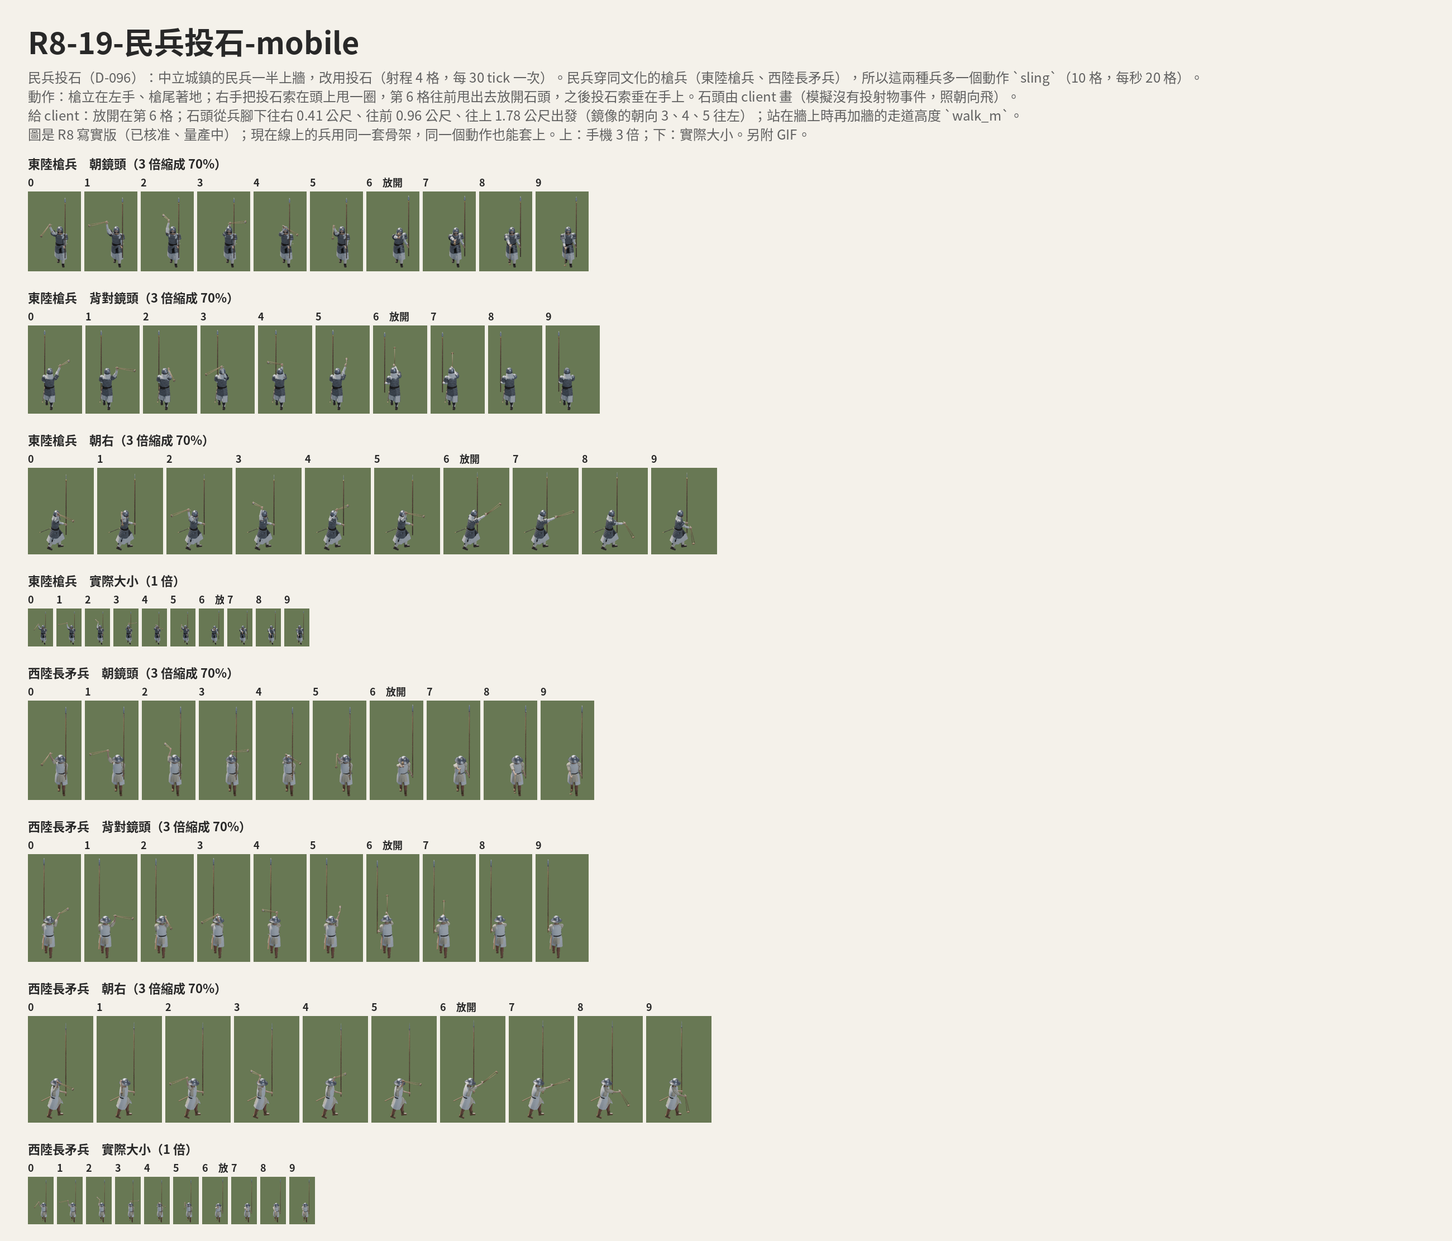
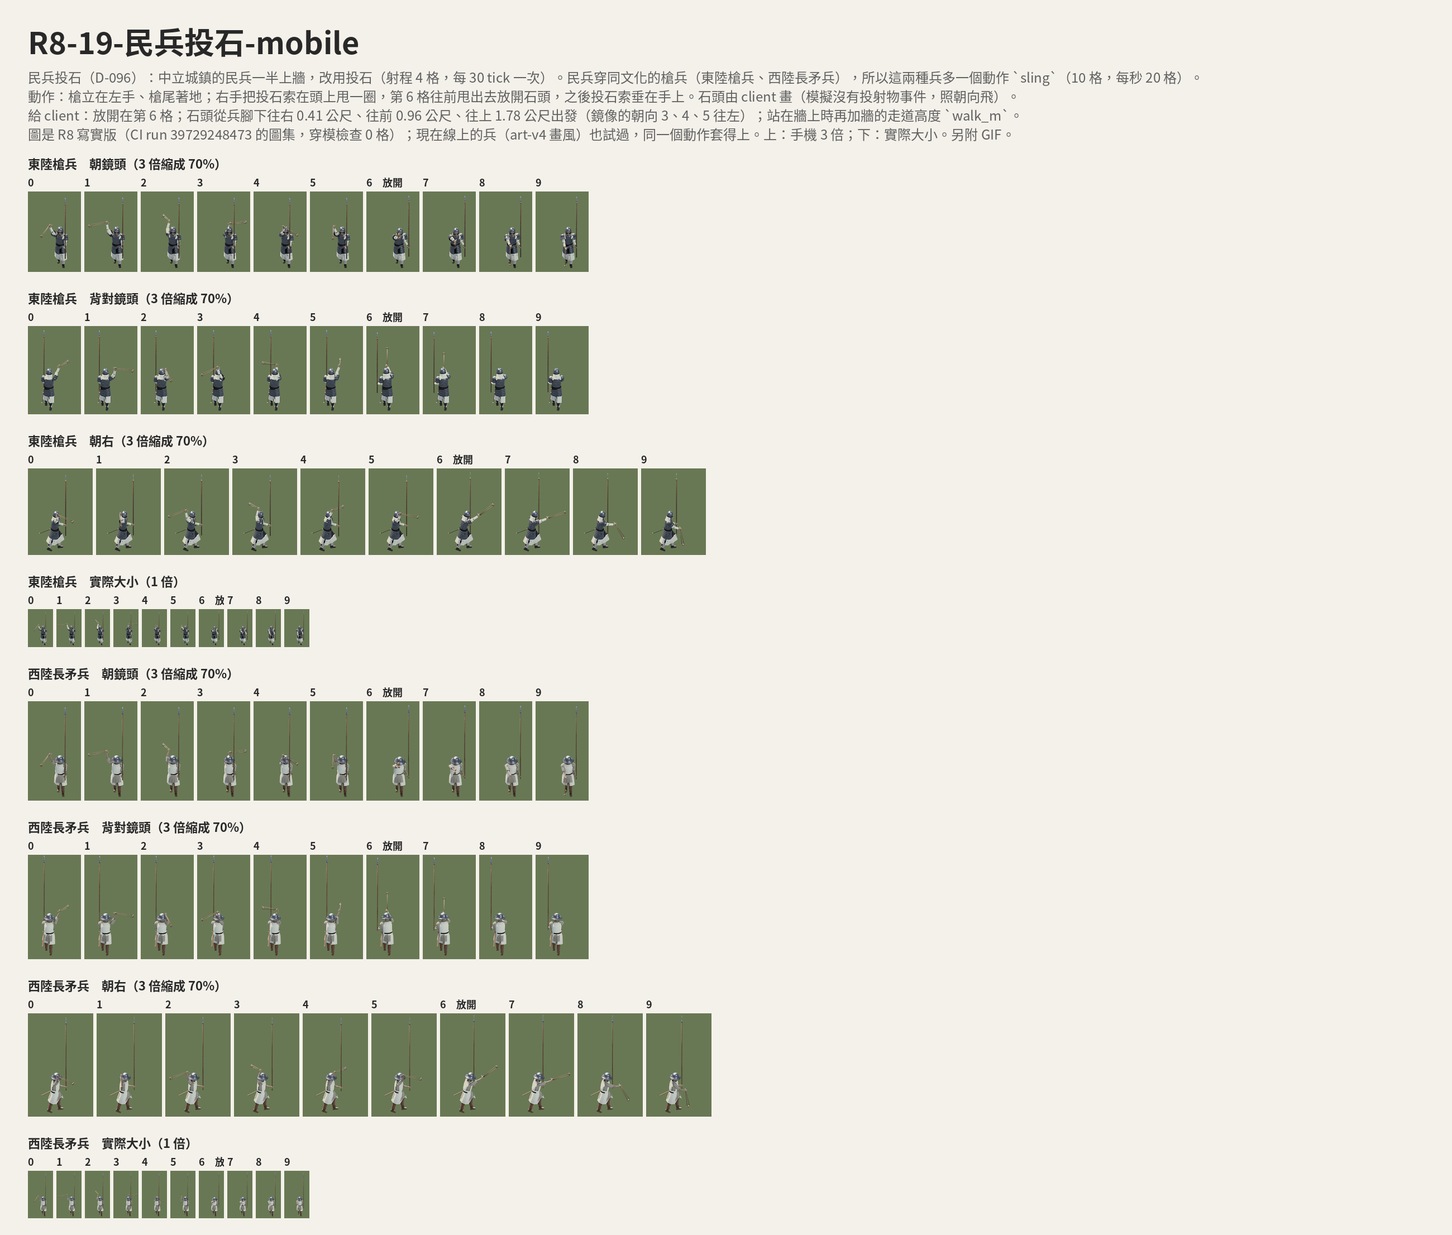
D-096 正式圖準備：角樓、望樓、城門柱子格的站點（stand_m、walk_m；望樓屋頂加高、西陸塔頂的錐頂縮小、東陸東西門的小亭往後退，留出站的地方），前片只留真的擋在某個兵前面的部件（畫面上重疊才算），ruin_front；空的前片打包時略過；R8-19 改用 CI 的圖集（穿模 0 格）

diff --git a/design/b1/blender/castle.py b/design/b1/blender/castle.py
@@ -49,16 +49,42 @@ def _size(side, along, across, h):
 def front_only(root, stand, walk, reach=0.4, gap=0.15):
     """Keep, for the camera, only what stands in front of a unit on the wall (D-096): the parts nearer the camera than
     the spot `stand` (by `gap`), across his width (`reach` either side of him; on a north or south wall the whole cell,
-    where his bow and arms reach) and rising above the walk he stands on.
+    where his bow and arms reach) and rising above the walk he stands on. `stand` may be a list of spots (a corner tower,
+    a gate's piers): a part in front of any of them is kept.
     The rest stays in the scene as a holdout (transparent, still casting its shadows), so the kept parts look exactly as
     in the whole piece, which the client draws under the unit."""
     import bpy
     import states
     bpy.context.view_layer.update()
+    spots = stand if isinstance(stand[0], (list, tuple)) else [stand]
+    ce, se = math.cos(math.radians(lib.CAM_ELEV)), math.sin(math.radians(lib.CAM_ELEV))
+
+    def v(y, z):                             # how high a point shows in the picture (the camera looks along +y)
+        return y * se + z * ce
+
+    def hides(box, spot):
+        """In front of the unit at `spot` and over him in the picture (a part in front of one unit on a piece with
+        several, but not over him, must not be drawn over the others)."""
+        x0, y0, z0, x1, y1, z1 = box
+        sx, sy, sz = spot
+        if not ((y0 + y1) / 2 < sy - gap and x0 < sx + reach and x1 > sx - reach and z1 > walk + 0.05):
+            return False
+        lo = min(v(y, z) for y in (y0, y1) for z in (z0, z1))
+        hi = max(v(y, z) for y in (y0, y1) for z in (z0, z1))
+        return lo < v(sy, sz) + 1.9 * ce and hi > v(sy, sz)
     for ob in kit.parts_under(root):
-        x0, y0, z0, x1, y1, z1 = states._bbox(ob)
-        if not ((y0 + y1) / 2 < stand[1] - gap and x0 < stand[0] + reach and x1 > stand[0] - reach and z1 > walk + 0.05):
+        box = states._bbox(ob)
+        if not any(hides(box, sp) for sp in spots):
             ob["back_holdout"] = True
+
+
+def _stand_cells(root, foot, spots):
+    """Where a unit stands on each cell of a piece that sims lets units onto (D-096: the corners and the gates' piers
+    are wall cells too): {(dx, dy): (x, y, z)}, dx, dy the cell from the footprint's north-west one (the sim's axes),
+    x, y, z the spot in the piece's metres. Marked as empties stand_at_<dx>_<dy>."""
+    for (dx, dy), at in sorted(spots.items()):
+        _mark(f"stand_at_{dx}_{dy}", root, at)
+    return list(spots.values())
 
 
 def _mark(name, parent, at):
@@ -186,7 +212,11 @@ def pal_e(root, c, variant=0, state="intact", front=False):
     _pal_side(root, c, "e", state, front)
 
 
-def pal_corner(root, c, variant=0, state="intact"):
+PC_DECK = 3.07                       # the watch post's deck: a unit on the corner stands there (D-096)
+PC_ROOF = 5.2                        # its roof, high enough over the deck for a man (art-v4: 3.9, nobody stood there)
+
+
+def pal_corner(root, c, variant=0, state="intact", front=False):
     """A watch post on the corner: four legs, a deck at 3 m, a rail, a small roof; the owner's hanging in front."""
     P = kit.palette(c)
     ruin = state == "ruin"
@@ -194,19 +224,22 @@ def pal_corner(root, c, variant=0, state="intact"):
     s = 0.75
     for sx in (-1, 1):
         for sy in (-1, 1):
-            cyl(f"pc_leg{sx}{sy}", 0.12, 3.9, wood, root, loc=(sx * s, sy * s, 0.0), segs=8)
+            cyl(f"pc_leg{sx}{sy}", 0.12, PC_ROOF, wood, root, loc=(sx * s, sy * s, 0.0), segs=8)
     box("pc_deck", (1.9, 1.9, 0.14), P["beam"], root, loc=(0, 0, 3.0))
     for k, (a, b, axis) in enumerate(((0, -0.92, "x"), (0, 0.92, "x"), (-0.92, 0, "y"), (0.92, 0, "y"))):
         box(f"pc_rail{k}", (1.9, 0.08, 0.5) if axis == "x" else (0.08, 1.9, 0.5), P["beam"], root, loc=(a, b, 3.3))
     for sx in (-1, 1):                       # braces under the deck
         rod(f"pc_br{sx}", (sx * s, -s, 0.4), (-sx * s, -s, 2.9), 0.05, P["beam"], parent=root)
     if c == "E":
-        kit.roof_e("pc_roof", P, root, 0, 0, 3.9, 1.8, 1.8, 0.8, over=0.3, curl=0.35)
+        kit.roof_e("pc_roof", P, root, 0, 0, PC_ROOF, 1.8, 1.8, 0.8, over=0.3, curl=0.35)
     else:
-        kit.roof_w("pc_roof", dict(P, tile=P["thatch"]), root, 0, 0, 3.9, 1.8, 1.8, 0.9, over=0.2, ridge="x")
+        kit.roof_w("pc_roof", dict(P, tile=P["thatch"]), root, 0, 0, PC_ROOF, 1.8, 1.8, 0.9, over=0.2, ridge="x")
     _hang("pc_hang", P, root, "y", 0, 2.95, 1.2, 1.4, ruin, y0=-0.92)
+    spots = _stand_cells(root, (1, 1), {(0, 0): (0.0, 0.0, PC_DECK)})
     if ruin:
         _soot(root)
+    if front:
+        front_only(root, spots, PC_DECK, reach=0.45)
 
 
 def _pal_gate(root, c, axis, state):
@@ -383,8 +416,10 @@ def sw_e(root, c, variant=0, state="intact", front=False):
     _sw_side(root, c, "e", state, front)
 
 
-def sw_ctower(root, c, variant=0, state="intact"):
-    """The corner tower, 2 x 2 cells. East: a 角樓, a brick base with a two-roofed pavilion; west: a round tower."""
+def sw_ctower(root, c, variant=0, state="intact", front=False):
+    """The corner tower, 2 x 2 cells. East: a 角樓, a brick base with a two-roofed pavilion; west: a round tower.
+    D-096: units stand on its top round the pavilion (east) or the roof cone (west, narrowed to leave a walk); its
+    front cells on the front of the top, the back ones at its sides, so that none stands behind the pavilion."""
     P = kit.palette(c)
     ruin = state == "ruin"
     if c == "E":
@@ -405,22 +440,34 @@ def sw_ctower(root, c, variant=0, state="intact"):
             a = 2 * math.pi * k / 10
             box(f"ct_m{k}", (0.45, 0.35, 0.6), P["stone"], root, loc=(R * 0.9 * math.cos(a), R * 0.9 * math.sin(a), Hb + 0.3),
                 rot=(0, 0, math.degrees(a) + 90), bevel=0.02)
-        cyl("ct_roof", R * 0.85, 2.4, P["tile"], root, loc=(0, 0, Hb + 0.1), r2=0.03, segs=24)
+        cyl("ct_roof", R * 0.5, 2.4, P["tile"], root, loc=(0, 0, Hb + 0.1), r2=0.03, segs=24)     # art-v4: R * 0.85
         for z in (2.0, 4.0):
             box(f"ct_slit{z}", (0.12, 0.1, 0.7), P["dark"], root, loc=(0, -R + 0.02, z), outline=False)
         _hang("ct_hang", P, root, "y", 0, Hb - 0.7, 1.2, 2.4, ruin, y0=-R + 0.05)
         top = Hb + 2.5
+    # the cells (from the north-west one): (0, 0) NW, (1, 0) NE, (0, 1) SW, (1, 1) SE; SW and SE are the front ones
+    if c == "E":
+        z, f, sd = Hb + 0.2, 1.55, 1.55
+        spots = {(0, 1): (-0.9, -f, z), (1, 1): (0.9, -f, z), (0, 0): (-sd, -0.35, z), (1, 0): (sd, -0.35, z)}
+    else:
+        z = Hb + 0.02
+        spots = {(0, 1): (-0.8, -0.8, z), (1, 1): (0.8, -0.8, z), (0, 0): (-1.1, -0.3, z), (1, 0): (1.1, -0.3, z)}
+    spots = _stand_cells(root, (2, 2), spots)
     if ruin:
         _rag("ct_frag", P, root, 0.1, -0.3, top + 0.6)
         _stones("ct_st", P, root, ((-1.9, -1.8), (1.4, -2.0), (2.0, -1.2)), seed=7)
         _soot(root)
     else:
         kit.flag("ct_flag", P, root, (0, 0, top - 0.1), 2.2, c, w=1.2, fh=1.5)
+    if front:
+        front_only(root, spots, spots[0][2], reach=0.4)
 
 
-def sw_gate_x(root, c, variant=0, state="intact"):
+def sw_gate_x(root, c, variant=0, state="intact", front=False):
     """The north and south gates along x: a pier on each side cell, the passage under the gate tower. variant 0: the
-    2-cell passage (4 cells in all); 1: the 3-cell passage of the random maps' centred big city (5 cells, core.large3)."""
+    2-cell passage (4 cells in all); 1: the 3-cell passage of the random maps' centred big city (5 cells, core.large3).
+    D-096: the piers are wall cells; a unit on one stands on the gate tower's deck in front of the hall (east), on the
+    round tower's top round its cone (west, narrowed to leave a walk)."""
     P = kit.palette(c)
     ruin = state == "ruin"
     H = WALL_H[c] + 0.4
@@ -455,7 +502,7 @@ def sw_gate_x(root, c, variant=0, state="intact"):
                 a = 2 * math.pi * k / 8
                 box(f"gx_tm{sx}{k}", (0.35, 0.3, 0.5), P["stone"], root, loc=(x + 0.9 * math.cos(a), -0.2 + 0.9 * math.sin(a),
                                                                                   H + 2.25), rot=(0, 0, math.degrees(a)))
-            cyl(f"gx_tr{sx}", 0.95, 1.8, P["tile"], root, loc=(x, -0.2, H + 2.05), r2=0.03, segs=20)
+            cyl(f"gx_tr{sx}", 0.4, 1.8, P["tile"], root, loc=(x, -0.2, H + 2.05), r2=0.03, segs=20)     # art-v4: 0.95
         kit.roof_flat_parapet("gx_par", P, root, 0, 0, H, op + 0.4, 2.0, merlon=0.45, gap=0.4, h=0.55, culture="W")
         if state in GATE_STATES:             # D-096: the portcullis let down in front of the leaves (torn out: broken)
             gates.portcullis("gx_port", P, root, "x", op, H - 1.15, -0.75, state)
@@ -478,9 +525,15 @@ def sw_gate_x(root, c, variant=0, state="intact"):
     else:
         for sx in (-1, 1):
             kit.flag(f"gx_flag{sx}", P, root, (sx * (L / 2 - 0.5), -0.2, top - (1.5 if c == "E" else 0.3)), 2.0, c, w=1.0, fh=1.4)
+    n = 4 + variant
+    xp = op / 2 + pier / 2
+    spots = _stand_cells(root, (n, 1), {(0, 0): (-xp, -1.0, H + 0.2), (n - 1, 0): (xp, -1.0, H + 0.2)} if c == "E" else
+                         {(0, 0): (-xp, -0.77, H + 2.0), (n - 1, 0): (xp, -0.77, H + 2.0)})
+    if front:
+        front_only(root, spots, spots[0][2], reach=0.4)
 
 
-def sw_gate_y(root, c, variant=0, state="intact"):
+def sw_gate_y(root, c, variant=0, state="intact", front=False):
     """The east and west gates along y: a pier tower on each side cell and the open gap between (seen from the camera
     the side walls are edge-on, so a span over the passage would look like a wall). variant as sw_gate_x."""
     P = kit.palette(c)
@@ -494,8 +547,10 @@ def sw_gate_y(root, c, variant=0, state="intact"):
         if c == "E":
             box(f"gy_pier{sy}", (2.0, pier, H), P["brick"], root, loc=(0, y, H / 2), bevel=0.04)
             kit.roof_flat_parapet(f"gy_par{sy}", P, root, 0, y, H, 2.0, pier, merlon=0.4, gap=0.35, h=0.45, culture="E")
-            kit.block_e(f"gy_kiosk{sy}", P, root, 0, y, 1.4, 1.4, H + 0.2, 1.2, windows=False)
-            kit.roof_e(f"gy_roof{sy}", P, root, 0, y, H + 1.4, 1.9, 1.9, 0.8, over=0.35, curl=0.45)
+            # the kiosk set back from the camera side, leaving a walk in front of it for a unit on the pier (D-096;
+            # art-v4: 1.4 m square in the middle)
+            kit.block_e(f"gy_kiosk{sy}", P, root, 0, y + 0.3, 1.1, 1.1, H + 0.2, 1.2, windows=False)
+            kit.roof_e(f"gy_roof{sy}", P, root, 0, y + 0.3, H + 1.4, 1.6, 1.6, 0.8, over=0.35, curl=0.45)
             top = H + 2.3
         else:
             cyl(f"gy_tw{sy}", 1.0, H + 1.8, P["stone"], root, loc=(0, y, 0.0), segs=20)
@@ -503,14 +558,14 @@ def sw_gate_y(root, c, variant=0, state="intact"):
                 a = 2 * math.pi * k / 8
                 box(f"gy_tm{sy}{k}", (0.33, 0.3, 0.5), P["stone"], root, loc=(0.85 * math.cos(a), y + 0.85 * math.sin(a), H + 2.05),
                     rot=(0, 0, math.degrees(a)))
-            cyl(f"gy_tr{sy}", 0.9, 1.7, P["tile"], root, loc=(0, y, H + 1.85), r2=0.03, segs=20)
+            cyl(f"gy_tr{sy}", 0.4, 1.7, P["tile"], root, loc=(0, y, H + 1.85), r2=0.03, segs=20)     # art-v4: 0.9
             top = H + 3.6
         _hang(f"gy_hang{sy}", P, root, "y", 0, H - 0.8, 1.2, 1.9, ruin, y0=y - pier / 2 - (0.05 if c == "E" else 0.0))
         if ruin:
             _rag(f"gy_rag{sy}", P, root, 0.1, y - 0.2, top + 0.4)
         else:
             kit.flag(f"gy_flag{sy}", P, root, (0, y, top - 0.1), 2.0, c, w=1.0, fh=1.4)
-        _mark(f"shoot_at_{(sy + 1) // 2}", root, (0, y, H + 0.8) if c == "E" else (0, y, H + 2.2))
+        _mark(f"shoot_at_{(sy + 1) // 2}", root, (0, y + 0.3, H + 0.8) if c == "E" else (0, y, H + 2.2))
     if state in GATE_STATES:
         # D-096: the leaves across the passage. Edge-on to the camera and behind the near pier, so what shows is what
         # spills out of the passage's mouths: the fire and the splinters (damaged), the fallen leaf (broken)
@@ -531,6 +586,14 @@ def sw_gate_y(root, c, variant=0, state="intact"):
     if ruin:
         _stones("gy_st", P, root, ((-1.5, -0.4), (1.4, 0.6)), seed=11)
         _soot(root)
+    # D-096: a unit on a pier stands in front of its kiosk (east), on its round tower round the cone (west); the
+    # north pier is the footprint's first cell
+    n = 4 + variant
+    yp = op / 2 + pier / 2
+    spots = _stand_cells(root, (1, n), {(0, 0): (0.0, yp - 0.47, H + 0.2), (0, n - 1): (0.0, -yp - 0.47, H + 0.2)} if c == "E"
+                         else {(0, 0): (0.0, yp - 0.57, H + 1.8), (0, n - 1): (0.0, -yp - 0.57, H + 1.8)})
+    if front:
+        front_only(root, spots, spots[0][2], reach=0.4)
 
 
 def ttower3(root, c, variant=0):
@@ -562,12 +625,12 @@ def tower3_state(root, c, state):
         raise ValueError(state)
 
 
-def gate_x3(root, c, variant=0, state="intact"):
-    sw_gate_x(root, c, variant=1, state=state)
+def gate_x3(root, c, variant=0, state="intact", front=False):
+    sw_gate_x(root, c, variant=1, state=state, front=front)
 
 
-def gate_y3(root, c, variant=0, state="intact"):
-    sw_gate_y(root, c, variant=1, state=state)
+def gate_y3(root, c, variant=0, state="intact", front=False):
+    sw_gate_y(root, c, variant=1, state=state, front=front)
 
 
 FOOTPRINT = {"pal_x": (1, 1), "pal_y": (1, 1), "pal_corner": (1, 1), "pal_gate_x": (3, 1), "pal_gate_y": (1, 3),

diff --git a/design/b1/common/atlas_b1.py b/design/b1/common/atlas_b1.py
@@ -89,13 +89,16 @@ def castle_table(c):
     on in each layout (CASTLE.placements), the floor tiles (CASTLE.floor). D-096: the gates' closed, damaged and
     broken looks; `intact_front` on the pieces with something in front of a unit standing on them; on the plain walls
     `walk_m` (the walk's height) and `stand_in_m` (where a unit stands, from the cell's middle toward the town); on the
-    gates `shoot_at_m` (where the gate tower's arrows leave: x east, y south, z up, metres from the anchor)."""
+    corners and the gates `stand_m` ({"dx,dy": [x, y, z]}: the cell from the footprint's north-west one, the spot on
+    it); on the gates `shoot_at_m` (where the gate tower's arrows leave). Spots: x east, y south, z up, metres from the
+    piece's anchor."""
     pieces = {}
     for k, f in CASTLE.PIECE_FOOT.items():
         looks = ("intact", "ruin") + (CASTLE.GATE_STATES if k in CASTLE.GATE_PIECES else ())
         e = dict(footprint=list(f), frames={s: f"castle_{k}_{c}_{s}" for s in looks})
-        if k in CASTLE.FRONTS:
+        if k in CASTLE.FRONTS:                   # intact_front for every look of a held town, ruin_front for the ruins
             e["frames"]["intact_front"] = f"castle_{k}_{c}_intact_front"
+            e["frames"]["ruin_front"] = f"castle_{k}_{c}_ruin_front"
         m = _marks(f"castle_{k}_{c}_intact")
         if "stand_at" in m:
             x, y, z = m["stand_at"]
@@ -105,6 +108,10 @@ def castle_table(c):
         shots = [m[n] for n in sorted(m) if n.startswith("shoot_at_")]
         if shots:
             e["shoot_at_m"] = [[round(x, 2), round(-y, 2), round(z, 2)] for x, y, z in shots]
+        cells = {n[len("stand_at_"):].replace("_", ","): v for n, v in m.items() if n.startswith("stand_at_")}
+        if cells:                                # the corners and the gates' piers: a spot on each cell units stand on
+            e["stand_m"] = {k2: [round(x, 2), round(-y, 2), round(z, 2)] for k2, (x, y, z) in sorted(cells.items())}
+            e["walk_m"] = round(max(z for _, _, z in cells.values()), 2)
         pieces[k] = e
     tiles = {t: f"castle_tile_{t}_{c}" for t in TILES}
     layouts = {}
@@ -283,6 +290,8 @@ def pack(frames, prefix, out, page, f, with_team=True, prep=None):
         if prep:
             col, (ax, ay), keep_shadow, trim = prep(name, col, sh, (ax, ay), (sax, say))
         bb = _bbox(col.getchannel("A")) if trim else (0, 0, col.width, col.height)
+        if bb is None:                           # nothing in it (a wall's front layer with nothing in front)
+            continue
         im = _scaled(col.crop(bb), f)
         todo["color"].append((name, im, _anchor(ax, ay, bb, f)))
         per[name] = {"color": im.width * im.height}
@@ -390,6 +399,8 @@ def run(scale=3.0, page=2048):
         view = view_of(frames)
         tables, pages, px, per = pack(frames, f"castle_{c}", cdir, page, f)
         pieces, tiles, layouts = castle_table(c)
+        for pc in pieces.values():               # a front layer with nothing in it (pack skips it) is not listed
+            pc["frames"] = {k: v for k, v in pc["frames"].items() if v in tables["color"]}
         man = {"format": "war-game castle 1", "culture": c, "scale": scale, "px_per_m": PX_PER_M * f, "cell_m": 2,
                **({"view": view} if view else {}), "team_gain": TEAM_GAIN, "pages": pages,
                "pieces": pieces, "tiles": tiles, "layouts": layouts,

diff --git a/design/r8/common/sling_board.py b/design/r8/common/sling_board.py
@@ -1,8 +1,9 @@
 """D-096 民兵投石 draft: the militia's sling throw (production/blender/anims.py extend_sling) on the R8 spearman and
 pikeman, every frame of three facings at the phone's 3x pixels and at actual size, and a GIF per culture.
 
-python3 design/r8/common/sling_board.py RAW_E RAW_W
-  RAW_*  folders of <unit>_sling_f<facing>_<ii>_x3_beauty.png (render_prod-style frames, e.g. the local preview)
+python3 design/r8/common/sling_board.py SRC_E SRC_W
+  SRC_*  the unit's atlas json (CI r7-v8-<unit>: atlas_x3/<unit>.json), or a folder of
+         <unit>_sling_f<facing>_<ii>_x3_beauty.png (render_prod-style frames, e.g. a local preview)
 writes design/r8/out/R8-19-民兵投石-mobile.png and R8-19-民兵投石-<東陸|西陸>.gif
 """
 import sys
@@ -22,10 +23,21 @@ FROM_M = (0.41, 0.96, 1.78)          # anims.sling_from: the pouch on the frame 
 BG = (104, 120, 84)
 
 
-def frames(raw, unit, facing):
+_ATLAS = {}
+
+
+def frames(src, unit, facing):
+    """The ten frames of one facing on the board's ground: from a folder of raw renders, or from a unit atlas json
+    (the CI artifact r7-v8-<unit>: atlas_x3/<unit>.json, in the militia's neutral colour)."""
     out = []
     for i in range(10):
-        im = Image.open(Path(raw) / f"{unit}_sling_f{facing}_{i:02d}_x3_beauty.png").convert("RGBA")
+        if str(src).endswith(".json"):
+            a = _ATLAS.setdefault(src, B.field.Atlas(src))
+            body, (ax, ay), _ = B.frame(a, unit, "sling", facing, i, "neutral")     # the militia are neutral
+            im = Image.new("RGBA", (360, 300), (0, 0, 0, 0))
+            im.alpha_composite(body, (int(180 - ax), int(250 - ay)))
+        else:
+            im = Image.open(Path(src) / f"{unit}_sling_f{facing}_{i:02d}_x3_beauty.png").convert("RGBA")
         bg = Image.new("RGBA", im.size, (*BG, 255))
         bg.alpha_composite(im)
         out.append(bg.convert("RGB"))
@@ -69,7 +81,8 @@ def main(raw_e, raw_w):
             "石頭由 client 畫（模擬沒有投射物事件，照朝向飛）。\n"
             f"給 client：放開在第 {RELEASE} 格；石頭從兵腳下往右 {FROM_M[0]} 公尺、往前 {FROM_M[1]} 公尺、往上 {FROM_M[2]} 公尺出發"
             "（鏡像的朝向 3、4、5 往左）；站在牆上時再加牆的走道高度 `walk_m`。\n"
-            "圖是 R8 寫實版（已核准、量產中）；現在線上的兵用同一套骨架，同一個動作也能套上。上：手機 3 倍；下：實際大小。另附 GIF。")
+            "圖是 R8 寫實版（CI run 39729248473 的圖集，穿模檢查 0 格）；現在線上的兵（art-v4 畫風）也試過，同一個動作套得上。"
+            "上：手機 3 倍；下：實際大小。另附 GIF。")
     parts = [boards.header(W, LABEL, text)]
     for raw, unit, name in ((raw_e, "spear_e", "東陸槍兵"), (raw_w, "pike_w", "西陸長矛兵")):
         rows = []

diff --git a/design/b1/common/run.py b/design/b1/common/run.py
@@ -200,8 +200,9 @@ for _i in range(0, len(_R606C), 7):
 _V4 = ([dict(kind=k, culture=c, opts=dict(state=s), name=f"castle_{k}_{c}_{s}", footprint=list(_castle.PIECE_FOOT[k]))
         for c in CULTURES for k in _castle.PIECE_FOOT
         for s in ("intact", "ruin") + (_castle.GATE_STATES if k in _castle.GATE_PIECES else ())]
-       + [dict(kind=k, culture=c, opts=dict(state="intact", front=True), name=f"castle_{k}_{c}_intact_front",
-               footprint=list(_castle.PIECE_FOOT[k]), passes=["beauty", "mask"]) for c in CULTURES for k in _castle.FRONTS]
+       + [dict(kind=k, culture=c, opts=dict(state=s, front=True), name=f"castle_{k}_{c}_{s}_front",
+               footprint=list(_castle.PIECE_FOOT[k]), passes=["beauty", "mask"])
+          for c in CULTURES for k in _castle.FRONTS for s in ("intact", "ruin")]
        + [dict(kind="tground", culture=c, opts=dict(plan=[(0.0, 0.0, t)]), name=f"castle_tile_{t}_{c}")
           for c in CULTURES for t in ("square", "street", "garden")]
        + [dict(kind="ttower3", culture=c, state=st, name=f"town_tower3_{c}_{s}")
@@ -229,7 +230,7 @@ for _c in CULTURES:
         + [dict(kind=k, culture=_c, opts=dict(state="intact"), name=f"castle_{k}_{_c}_intact", footprint=[1, 1])
            for k in D096_WALLS]
         + [dict(kind=k, culture=_c, opts=dict(state="intact", front=True), name=f"castle_{k}_{_c}_intact_front",
-                footprint=[1, 1], passes=["beauty", "mask"]) for k in D096_FRONTS]
+                footprint=list(_castle.PIECE_FOOT[k]), passes=["beauty", "mask"]) for k in D096_FRONTS]
         + [dict(kind=k, culture=_c, opts=dict(state="intact"), name=f"castle_{k}_{_c}_intact", footprint=list(_castle.PIECE_FOOT[k]))
            for k in ("pal_corner", "sw_ctower")])                     # unchanged: the corners on the boards
     TARGETS[f"d096w_{_c}"] = [pc for pc in TARGETS[f"d096_{_c}"] if pc["kind"] not in D096_GATES]

diff --git a/design/b1/common/castle.py b/design/b1/common/castle.py
@@ -163,7 +163,8 @@ SIDES = ("n", "s", "w", "e")
 PIECE_FOOT.update({f"{w}_{d}": (1, 1) for w in ("pal", "sw") for d in SIDES})
 GATE_PIECES = ("pal_gate_x", "pal_gate_y", "sw_gate_x", "sw_gate_y", "sw_gate_x3", "sw_gate_y3")
 GATE_STATES = ("closed", "damaged", "broken")      # blender/gates.py; "intact" is the open gate
-FRONTS = ("pal_s", "sw_n", "sw_s")                  # something stands in front of a unit on them (castle.front_only)
+FRONTS = ("pal_s", "sw_n", "sw_s", "pal_corner", "sw_ctower", "sw_gate_x", "sw_gate_y", "sw_gate_x3", "sw_gate_y3")
+# ^ the pieces whose front layer (castle.front_only) may hold something; an empty one is left out when packing
 INWARD = {"n": (0, 1), "s": (0, -1), "w": (1, 0), "e": (-1, 0)}   # toward the town, in the sim's cells (+y south)
 
 
